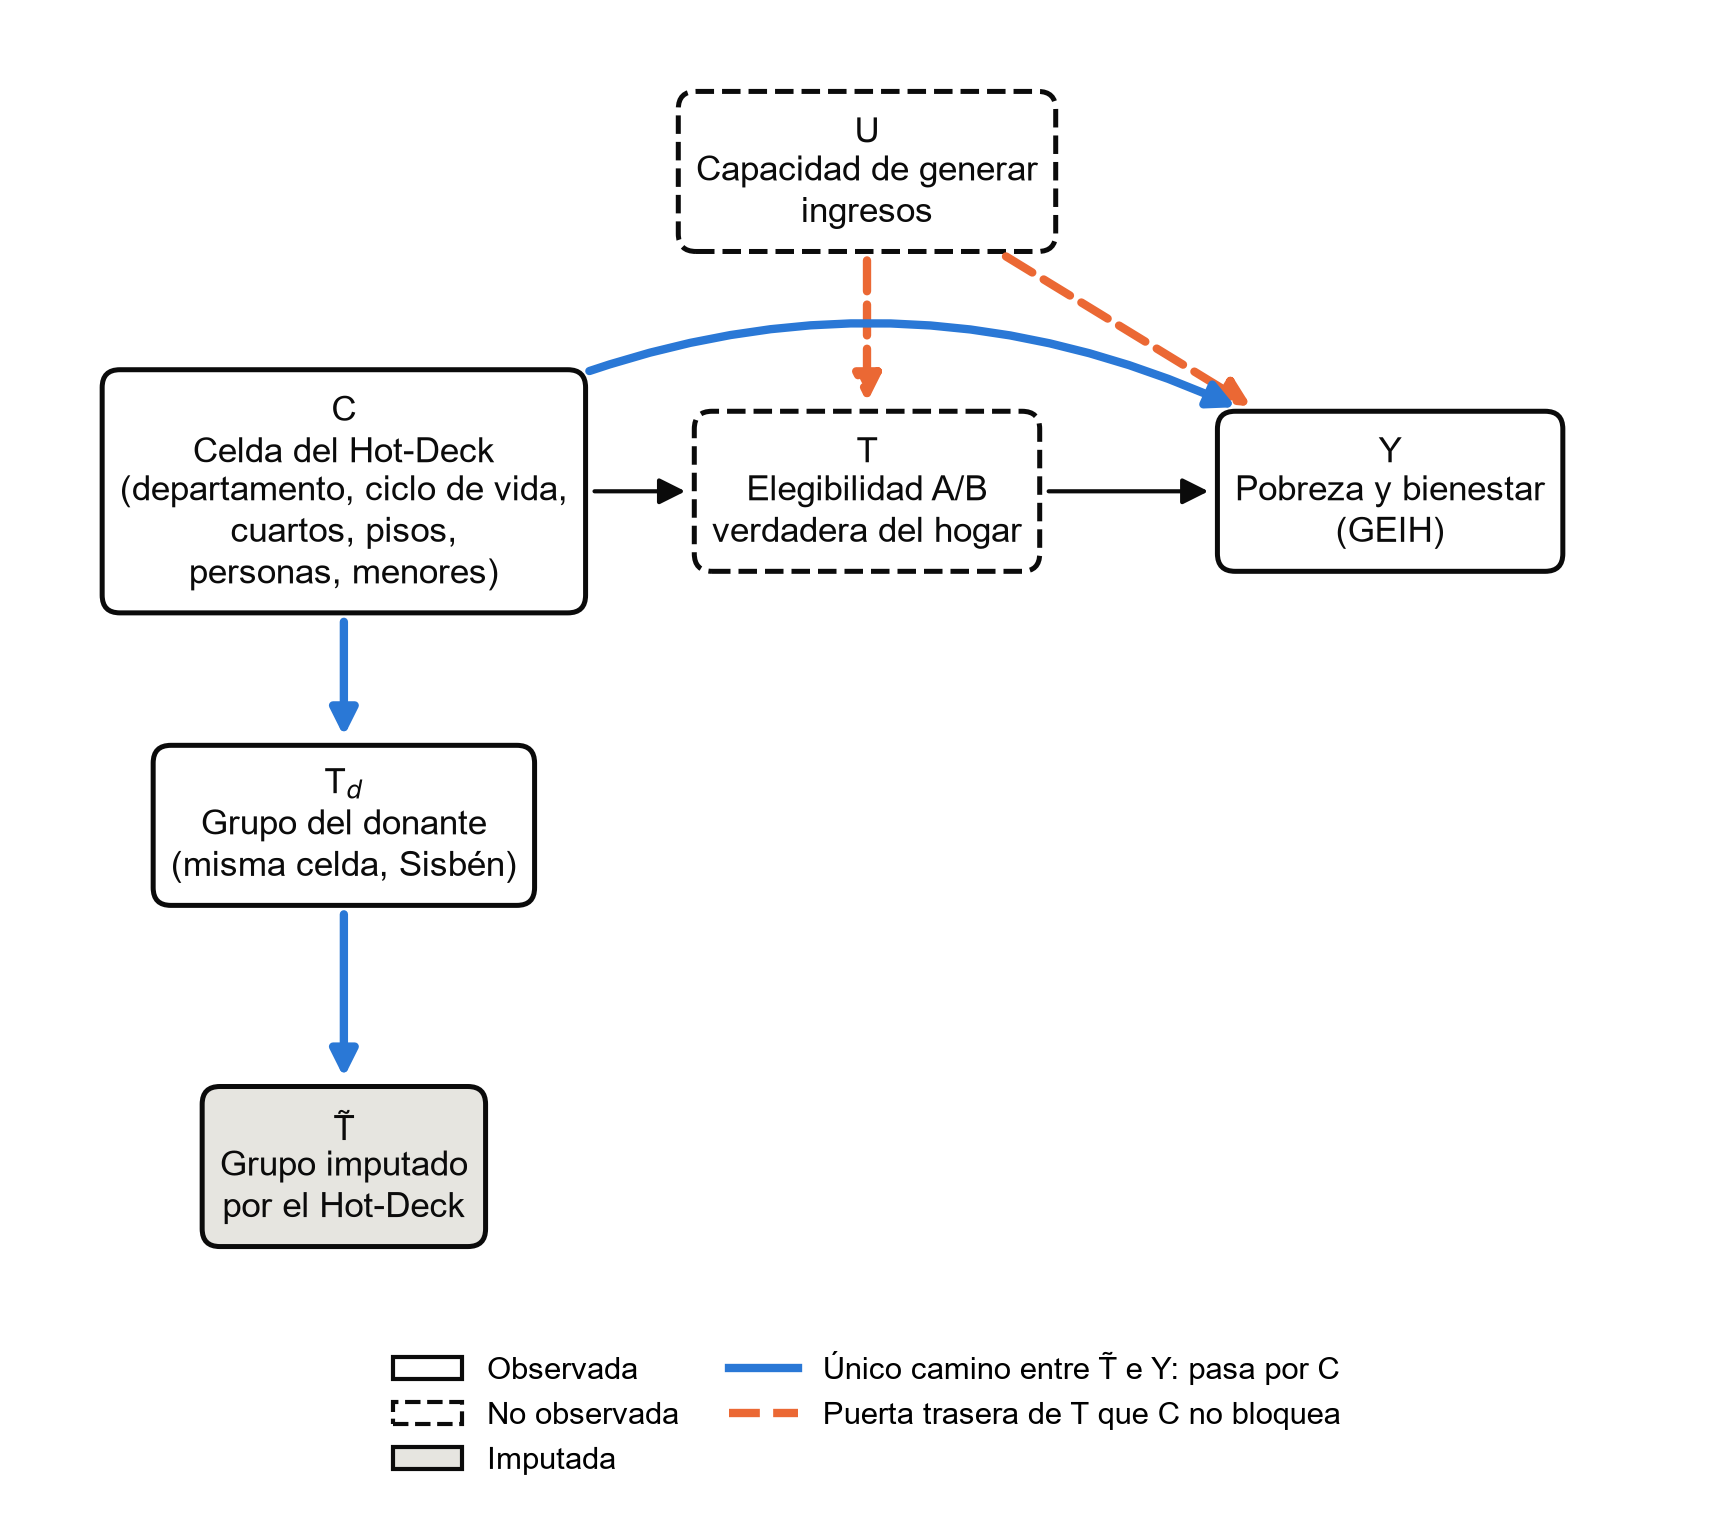
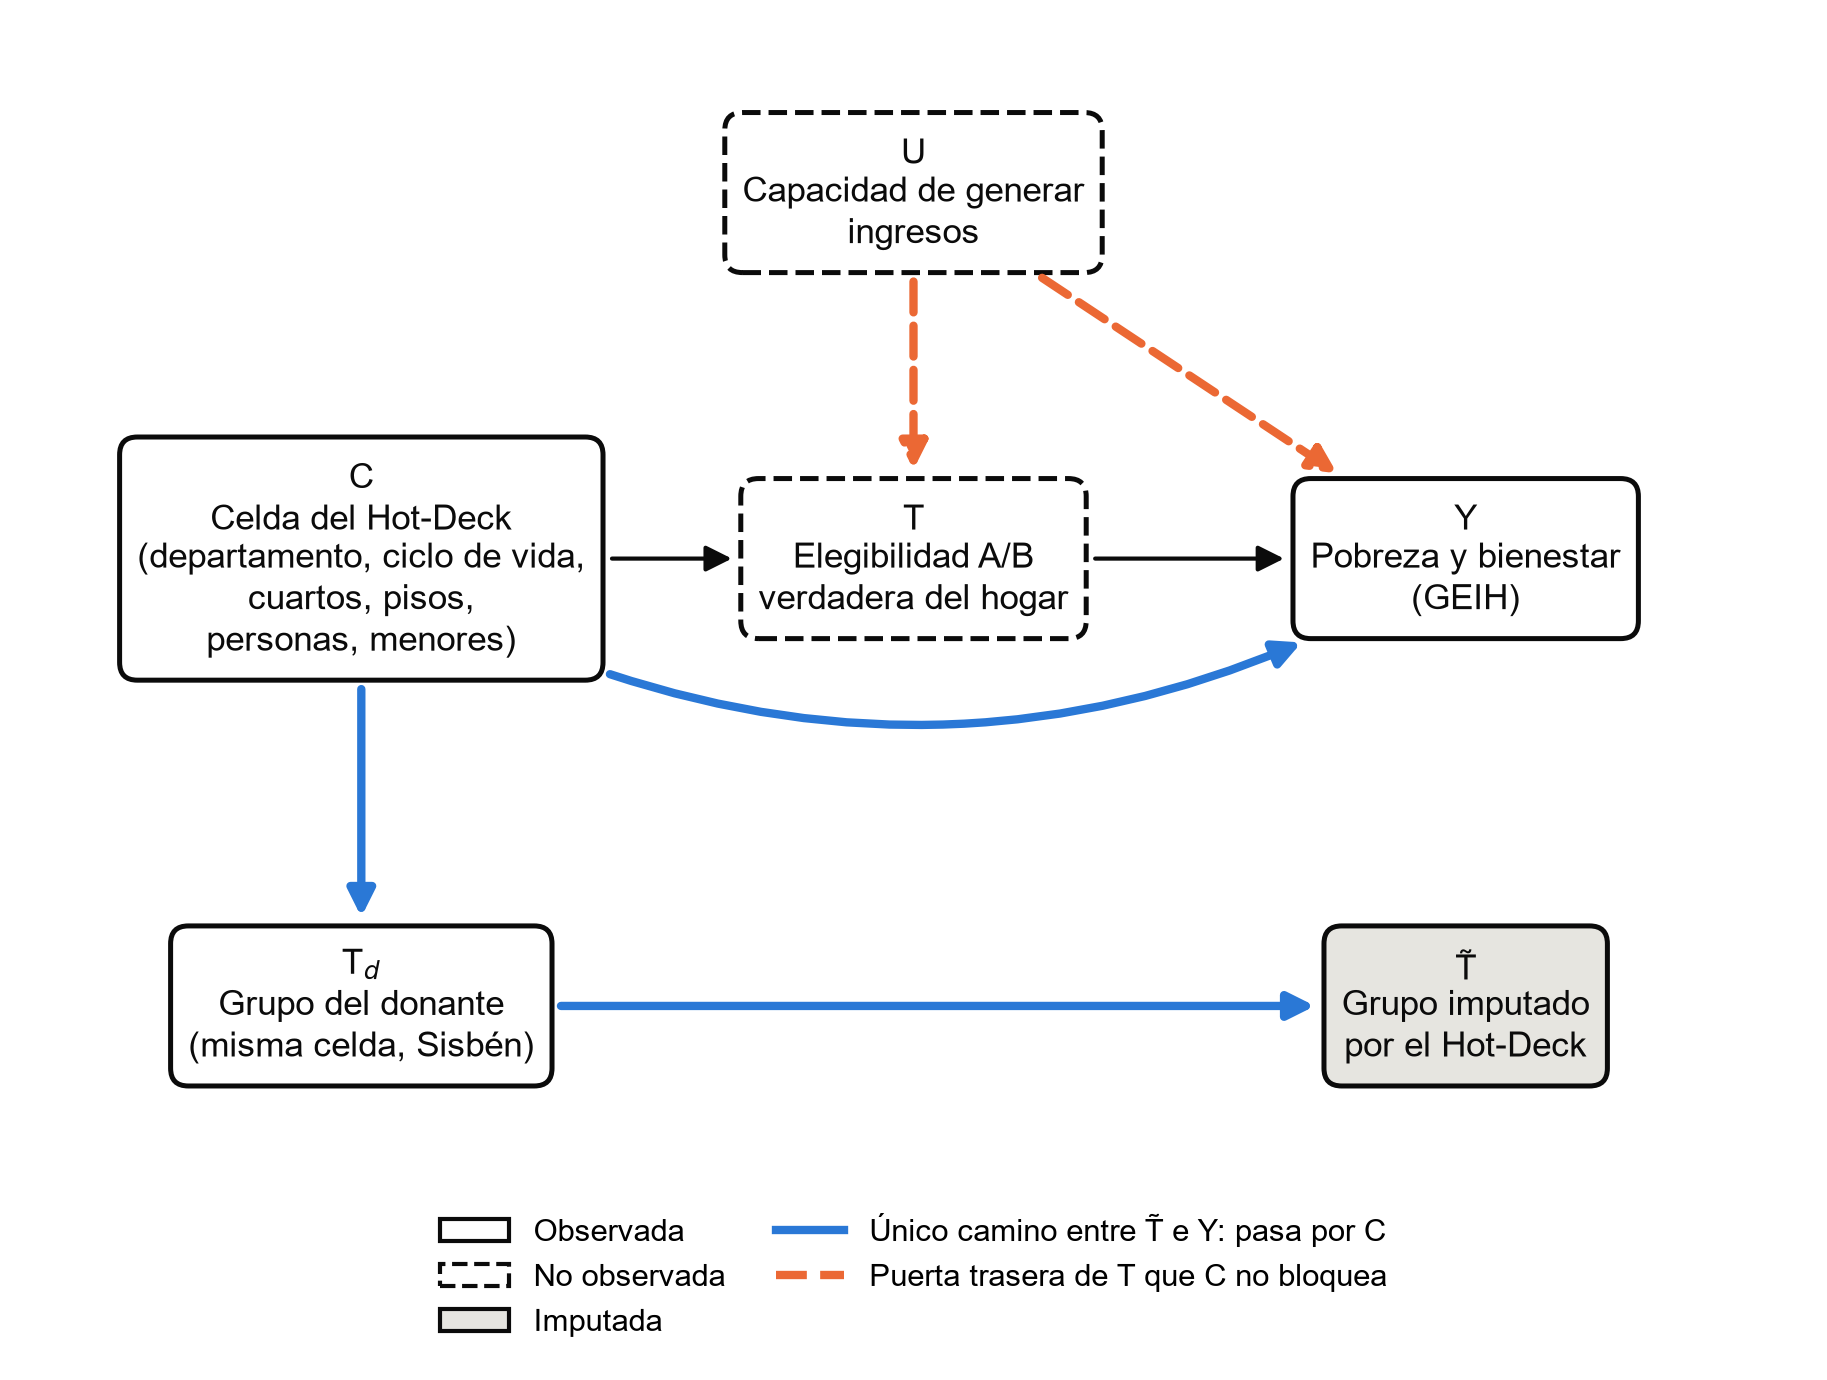
Sincronizacion con Azure por contenido (MD5) y 2_models publicado de nuevo; DAG de la simulacion y de la Proposicion 1

Changed region(s): [[0.0311, 0.0312, 0.9031, 0.8413], [0.218, 0.8725, 0.7785, 0.9659]]

diff --git a/src/utils/figuras_tesis.py b/src/utils/figuras_tesis.py
@@ -19,6 +19,8 @@
                                 grupo imputado es independiente de Y. Los dos DAG
                                 van en formato APA (sin título en la imagen) y
                                 comprueban con d-separación su nota
+  fig_dag_simulacion.png        DAG del generador de la simulación (sección 6.1):
+                                qué confunde la asignación según γ
   fig_nubes_celda_placebo.png   ilustración simulada* de la Proposición 1: en
                                 una celda, las nubes por T se separan y por T~
                                 son iguales
@@ -317,6 +319,22 @@ def grafo_ignorabilidad_hotdeck():
     return g
 
 
+def grafo_simulacion(gamma: bool = True):
+    """DAG del generador semisintético (sección 6.1), con la notación del
+    documento: C celda, X modificadores del efecto τ(X) (zona, sexo del jefe,
+    paredes), U residuo del ingreso real, Y0 ingreso real, T el tratamiento
+    simulado (sorteo o corte del puntaje), T_d y T~ los del Hot-Deck.
+    Es el mismo grafo de `4_dag_identificacion.grafo_simulacion`."""
+    import networkx as nx
+
+    g = nx.DiGraph()
+    g.add_edges_from([("C", "T"), ("X", "T"), ("C", "Td"), ("Td", "Ti"), ("C", "Y0"), ("X", "Y0"),
+                      ("U", "Y0"), ("Y0", "Y"), ("T", "Y"), ("X", "Y")])
+    if gamma:
+        g.add_edge("U", "T")
+    return g
+
+
 def _puerta_trasera(g, t: str, y: str, ajuste: set[str]) -> bool:
     import networkx as nx
 
@@ -404,8 +422,9 @@ def dag_ignorabilidad_hotdeck() -> Path:
     assert nx.is_d_separator(g, {"Ti"}, {"Y"}, {"C"}), "T~ debería ser independiente de Y dada C"
     assert not nx.is_d_separator(g, {"Ti"}, {"Y"}, set()), "sin C, T~ y Y deberían estar asociadas"
     assert not _puerta_trasera(g, "T", "Y", {"C"}), "U debería dejar abierta la puerta trasera de T"
+    # T̃ queda debajo de Y, sin flecha entre ellos: el único camino es por C.
     pos = {"U": (0.50, 1.00), "C": (0.00, 0.55), "T": (0.50, 0.55), "Y": (1.00, 0.55),
-           "Td": (0.00, 0.08), "Ti": (0.00, -0.40)}
+           "Td": (0.00, 0.00), "Ti": (1.00, 0.00)}
     etiqueta = {"U": "U\nCapacidad de generar\ningresos",
                 "C": "C\nCelda del Hot-Deck\n(departamento, ciclo de vida,\ncuartos, pisos,\npersonas, menores)",
                 "T": "T\nElegibilidad A/B\nverdadera del hogar",
@@ -416,7 +435,36 @@ def dag_ignorabilidad_hotdeck() -> Path:
                         abiertos={("U", "T"), ("U", "Y")}, etiqueta_abiertos="Puerta trasera de T que C no bloquea",
                         bloqueados={("C", "Td"), ("Td", "Ti"), ("C", "Y")},
                         etiqueta_bloqueados="Único camino entre T̃ e Y: pasa por C",
-                        imputado={"Ti"}, curva={("C", "Y"): -0.32})
+                        imputado={"Ti"}, curva={("C", "Y"): 0.30}, tam=(7.6, 5.0))
+
+
+def dag_simulacion() -> Path:
+    """DAG del generador de la simulación (sección 6.1). Comprueba con
+    d-separación lo que dice su nota: con γ = 0, C y X bastan para
+    identificar el efecto de T; con γ > 0, no; y T~ es independiente de Y
+    dada C."""
+    import networkx as nx
+
+    g = grafo_simulacion()
+    assert _puerta_trasera(grafo_simulacion(gamma=False), "T", "Y", {"C", "X"}), "con γ = 0, C y X deberían bastar"
+    assert not _puerta_trasera(g, "T", "Y", {"C", "X"}), "con γ > 0, U debería dejar abierta la puerta trasera"
+    assert nx.is_d_separator(g, {"Ti"}, {"Y"}, {"C"}), "T~ debería ser independiente de Y dada C"
+    # Misma fila central que el DAG de la Proposición 1: C → T → Y.
+    pos = {"U": (0.50, 1.05), "Y0": (1.00, 1.05),
+           "C": (0.00, 0.55), "T": (0.50, 0.55), "Y": (1.00, 0.55),
+           "Td": (0.00, 0.05), "Ti": (0.50, 0.05), "X": (1.00, 0.05)}
+    etiqueta = {"C": "C\nCelda del Hot-Deck",
+                "X": "X\nModificadores del efecto\n(zona, sexo del jefe, paredes)",
+                "U": "U\nResiduo del\ningreso real",
+                "Td": "T$_d$\nGrupo del donante\n(misma celda)",
+                "T": "T*\nTratamiento simulado\n(sorteo o corte del puntaje)",
+                "Y0": "Y(0)\nIngreso real\n(GEIH)",
+                "Ti": "T̃\nGrupo imputado\npor el Hot-Deck",
+                "Y": "Y*\nY(0) + τ(X)·T*"}
+    return _dibujar_dag(g, pos, etiqueta, "fig_dag_simulacion.png", no_observado={"U"},
+                        abiertos={("U", "T")}, etiqueta_abiertos="Confusión no observada: solo con γ > 0",
+                        bloqueados={("T", "Y")}, etiqueta_bloqueados="Efecto verdadero τ(X) que se busca recuperar",
+                        imputado={"Ti"}, curva={("X", "Y0"): 0.45}, tam=(7.8, 5.4))
 
 
 def nubes_celda(efecto: float = 0.8, n: int = 90, semilla: int = 7) -> Path:
@@ -526,7 +574,7 @@ def main(con_datos: bool = True) -> None:
     _estilo()
     rutas = [cotas_por_celda(), errores_por_departamento(), atenuacion(), arquitectura(), estabilidad_hotdeck(),
              importancia_oe1(), dag_ignorabilidad_marco(),
-             dag_ignorabilidad_hotdeck(), nubes_celda(), dml_tres_pasos()]
+             dag_ignorabilidad_hotdeck(), dag_simulacion(), nubes_celda(), dml_tres_pasos()]
     if con_datos:
         rutas.append(propension_celda())
     print("\n".join(f"Guardado: {r}" for r in rutas))

diff --git a/src/utils/azure_storage.py b/src/utils/azure_storage.py
@@ -36,6 +36,7 @@ Uso típico:
 
 from __future__ import annotations
 
+import hashlib
 import logging
 import os
 from pathlib import Path
@@ -91,6 +92,9 @@ def subir_archivo(ruta_local: str | Path, ruta_azure: str, sobrescribir: bool = 
 
     container = _cliente_contenedor()
     blob_client = container.get_blob_client(ruta_azure)
+    # El MD5 queda guardado aunque la subida vaya por bloques: es lo que
+    # compara `ya_esta_en_azure` en la próxima sincronización.
+    md5 = _md5(ruta_local)
 
     logger.info(
         "Subiendo %s -> azure://%s/%s (%.2f MB)",
@@ -103,7 +107,7 @@ def subir_archivo(ruta_local: str | Path, ruta_azure: str, sobrescribir: bool = 
         try:
             with open(ruta_local, "rb") as f:
                 blob_client.upload_blob(
-                    f, overwrite=sobrescribir,
+                    f, overwrite=sobrescribir, content_settings=ContentSettings(content_md5=md5),
                     timeout=900, connection_timeout=900, max_concurrency=2,
                 )
             logger.info("Subida completa: %s", ruta_azure)
@@ -149,6 +153,32 @@ def listar_archivos(prefijo: str = "") -> list[str]:
     return [b.name for b in container.list_blobs(name_starts_with=prefijo)]
 
 
+def _md5(ruta: Path) -> bytes:
+    h = hashlib.md5()
+    with open(ruta, "rb") as f:
+        for bloque in iter(lambda: f.read(8 * 1024 * 1024), b""):
+            h.update(bloque)
+    return h.digest()
+
+
+def ya_esta_en_azure(archivo: Path, blob) -> bool:
+    """¿El blob tiene el mismo contenido que el archivo local?
+
+    Hasta el 2026-11-18 se comparaba solo el tamaño, y un parquet
+    regenerado con el mismo tamaño no se subía: la GEIH procesada de Azure
+    quedó en la versión del 2026-10-10 aunque la local era del 2026-11-02.
+    Se compara el MD5 que Azure guarda del contenido; si el blob no lo
+    tiene (subidas por bloques), cuenta como distinto si el tamaño cambia
+    o si el archivo local es más reciente que el blob."""
+    if blob is None:
+        return False
+    md5_azure = blob.content_settings.content_md5 if blob.content_settings else None
+    if md5_azure:
+        return bytes(md5_azure) == _md5(archivo)
+    local_mas_reciente = archivo.stat().st_mtime > blob.last_modified.timestamp()
+    return blob.size == archivo.stat().st_size and not local_mas_reciente
+
+
 def sincronizar_carpeta_local_a_azure(
     carpeta_local: str | Path,
     prefijo_azure: str,
@@ -173,16 +203,15 @@ def sincronizar_carpeta_local_a_azure(
     logger.info("Sincronizando %s archivos de %s hacia azure://%s/%s",
                 len(archivos), carpeta_local, CONTAINER_NAME, prefijo_azure)
 
-    # Reanudable: se omiten los archivos que ya están en Azure con el mismo tamaño.
+    # Reanudable: se omiten los archivos que ya están en Azure con el mismo contenido.
     existentes = {
-        b.name: b.size
-        for b in _cliente_contenedor().list_blobs(name_starts_with=f"{prefijo_azure}/")
+        b.name: b for b in _cliente_contenedor().list_blobs(name_starts_with=f"{prefijo_azure}/")
     }
     subidos = omitidos_ya = 0
     for archivo in archivos:
         ruta_relativa = archivo.relative_to(carpeta_local)
         ruta_azure = f"{prefijo_azure}/{ruta_relativa.as_posix()}"
-        if existentes.get(ruta_azure) == archivo.stat().st_size:
+        if ya_esta_en_azure(archivo, existentes.get(ruta_azure)):
             omitidos_ya += 1
             continue
         subir_archivo(archivo, ruta_azure)

diff --git a/tests/test_azure_storage.py b/tests/test_azure_storage.py
@@ -1,0 +1,44 @@
+"""Sincronización con el banco de datos de Azure: qué archivo se vuelve a
+subir. Hasta el 2026-11-18 se comparaba solo el tamaño y la GEIH procesada
+de Azure quedó en la versión del 2026-10-10. No se conecta a Azure."""
+import hashlib
+import os
+from datetime import datetime, timezone
+from types import SimpleNamespace
+
+from src.utils.azure_storage import ya_esta_en_azure
+
+
+def _blob(contenido: bytes, md5: bool = True, modificado: float = 0.0):
+    return SimpleNamespace(
+        size=len(contenido),
+        last_modified=datetime.fromtimestamp(modificado, tz=timezone.utc),
+        content_settings=SimpleNamespace(content_md5=bytearray(hashlib.md5(contenido).digest()) if md5 else None),
+    )
+
+
+def test_mismo_tamano_otro_contenido_se_sube(tmp_path):
+    archivo = tmp_path / "a.parquet"
+    archivo.write_bytes(b"version nueva")
+    assert len(b"version nueva") == len(b"version vieja")
+    assert not ya_esta_en_azure(archivo, _blob(b"version vieja"))
+
+
+def test_mismo_contenido_no_se_sube(tmp_path):
+    archivo = tmp_path / "a.parquet"
+    archivo.write_bytes(b"igual")
+    assert ya_esta_en_azure(archivo, _blob(b"igual"))
+
+
+def test_sin_blob_se_sube(tmp_path):
+    archivo = tmp_path / "a.parquet"
+    archivo.write_bytes(b"x")
+    assert not ya_esta_en_azure(archivo, None)
+
+
+def test_sin_md5_cuenta_la_fecha(tmp_path):
+    archivo = tmp_path / "a.parquet"
+    archivo.write_bytes(b"version nueva")
+    os.utime(archivo, (2_000_000_000, 2_000_000_000))
+    assert not ya_esta_en_azure(archivo, _blob(b"version vieja", md5=False, modificado=1_000_000_000))
+    assert ya_esta_en_azure(archivo, _blob(b"version vieja", md5=False, modificado=3_000_000_000))

diff --git a/tests/mutaciones.py b/tests/mutaciones.py
@@ -7,7 +7,7 @@ No lo recoge pytest (el nombre no empieza por `test_`).
 
 Uso:
     PYTHONIOENCODING=utf-8 ./.venv/Scripts/python.exe tests/mutaciones.py
-Resultado del 2026-11-15: 69 de 69 mutaciones detectadas.
+Resultado del 2026-11-18: 70 de 70 mutaciones detectadas.
 Al agregar una prueba por un error nuevo, agregar aquí su mutación.
 """
 import shutil
@@ -205,6 +205,9 @@ MUTACIONES = [
      "tests/test_variabilidad_hotdeck.py"),
     ("Variabilidad: reglas de Rubin sin el factor (1 + 1/m)", "src/diagnostico/variabilidad_hotdeck.py",
      "total = w + (1 + 1 / m) * b", "total = w + b", "tests/test_variabilidad_hotdeck.py"),
+    ("Azure: sincronización por tamaño, no por contenido (error del 2026-11-18)", "src/utils/azure_storage.py",
+     "return bytes(md5_azure) == _md5(archivo)", "return blob.size == archivo.stat().st_size",
+     "tests/test_azure_storage.py"),
 ]
 
 resultados = []

diff --git a/tests/README.md b/tests/README.md
@@ -1,6 +1,6 @@
 # Pruebas
 
-283 pruebas en 26 archivos (2026-11-15). Casi todas usan datos
+287 pruebas en 27 archivos (2026-11-18). Casi todas usan datos
 sintéticos y corren sin el banco de datos; las que necesitan datos reales
 se saltan solas si no están (`skipif`).
 
@@ -45,6 +45,7 @@ equivocados (CLAUDE.md, "Bugs ya encontrados").
 | `test_variables_canonicas.py` | `utils/variables_canonicas.py` | Llaves con formatos distintos ("01", "1.0", " 1 "); jefe por fuente; cortes del ciclo de vida de `PER002`; menor de 18 en años (17 sí, 18 no) y en ciclo de vida (1-3 sí, 4 no); GEIH y Sisbén en los mismos tramos del Hot-Deck | `mes` "01" frente a "1" (2026-11-02); celdas que no empatan entre fuentes |
 | `test_ingesta_y_validacion.py` | `ingesta/geih_loader.py`, `validacion/comparar_pobreza_monetaria_oficial.py`, `4_dag_identificacion.py` | Los 8 módulos de los 12 meses con las variantes reales ("No ocupado" en marzo, agosto desde `.DTA`, carpetas vacías); Latin-1; cruce uno a uno con la base oficial; chequeos de identificación de los cinco DAG (placebo del Hot-Deck, registro en el Sisbén, confusión de la simulación) | Meses incompletos sin aviso; cruce vacío con la base oficial |
 | `test_hotdeck_celda.py` | `emparejamiento/…` | Celda con nivel de pisos y tramos de personas y menores, igual entre fuentes; cadena de respaldos en orden (`sin_menores` → `sin_personas` → `sin_pisos` → …); falla si falta una columna de la celda | Celda que cae al respaldo sin avisar; tramo de personas corrido |
+| `test_azure_storage.py` | `utils/azure_storage.py` | La sincronización vuelve a subir un archivo con el mismo tamaño y otro contenido (MD5); sin MD5, el que cambió de tamaño o es más reciente; no sube el idéntico | `2_models` de Azure en la versión del 2026-11-02 (sin `hog_num_menores` ni el IPM rural corregido) hasta el 2026-11-18 |
 | `test_local_csv_parser.py` | `ingesta/local_csv_parser.py` | Códigos de `.DTA` como "1", no "1.0" | Agosto con `POBRE_GEIH` 6,9 % (hasta 2026-11-02) |
 | `test_validar_ipm_geih_ecv.py` | `indicadores/ipm_proxy.py`, `validacion/validar_ipm_geih_ecv.py` | Reglas del proxy (sin y con todas las privaciones, nivel 99), vivienda con la definición oficial por zona (excretas, agua, hacinamiento), jefe no ocupado privado en la ECV como en la GEIH, concordancia ponderada y kappa | Campo con la regla urbana de alcantarillado; jefe no ocupado de la ECV contado como cotizante |
 | `test_preprocesamiento.py` | `3_preprocesamiento.py` | IPM-GEIH con enero real: una fila por hogar, privaciones binarias sin faltantes, puntaje = suma, umbrales monótonos (se salta sin los datos) | |

diff --git a/docs/seguimiento/CHANGELOG_PENDIENTES.md b/docs/seguimiento/CHANGELOG_PENDIENTES.md
@@ -2,6 +2,24 @@
 
 Formato: más reciente primero. Rama de trabajo: `main`.
 
+## 2026-11-18 (47) — Banco de datos de Azure al día; DAG de la Proposición 1 y de la simulación
+
+### Corregido
+- **`2_models` de Azure estaba en la versión del 2026-11-02.** La sincronización omitía todo
+  archivo con el mismo tamaño que el de Azure, sin avisar. Comparado en memoria: la fusionada y
+  las muestras de estimación no tenían `hog_num_menores`, su Hot-Deck era de la celda anterior
+  (grupo, nivel y celda distintos) y la muestra tenía el IPM sin la corrección rural del 11-nov
+  (`POBRE_GEIH`, hacinamiento, acueducto, alcantarillado). Las filas coincidían. `azure_storage`
+  compara ahora el MD5 y lo guarda al subir; `2_models` publicado de nuevo y verificado (14 de 14
+  iguales). En `1_processed`, la GEIH mensual de Azure solo difiere en `_ingestion_timestamp`.
+  Prueba en `tests/test_azure_storage.py` y su mutación.
+- 287 pruebas; 70 de 70 mutaciones detectadas.
+
+### Agregado
+- **DAG de la simulación** (`fig_dag_simulacion.png`, sección 6.1 del documento) con la paleta de
+  las demás figuras, y el de la Proposición 1 reacomodado (T̃ debajo de Y, sin flecha entre
+  ellos). Los dos comprueban por d-separación lo que dice su nota.
+
 ## 2026-11-16 (46) — Variables descartadas evaluadas sobre la celda final; conteo de departamentos
 
 ### Corregido

diff --git a/CLAUDE.md b/CLAUDE.md
@@ -152,6 +152,14 @@ abierta y recomendación, no como conclusión causal). Reglas del tutor:
   celda o el tamaño de una muestra, comparar el DML con la regresión con
   efectos fijos antes de leerlo.
 
+- **La sincronización con Azure comparaba solo el tamaño.** Hasta el
+  2026-11-18 `sincronizar_carpeta_local_a_azure` omitía un archivo si en
+  Azure había uno del mismo tamaño: `2_models` quedó en la versión del
+  2026-11-02 (sin `hog_num_menores`, Hot-Deck de la celda anterior e IPM
+  sin la corrección rural) aunque se publicó después. No da error. Ahora
+  compara el MD5 del contenido. Después de publicar, comprobar que Azure
+  coincide con lo local antes de correr algo desde Azure.
+
 ## Diccionarios oficiales de variables
 
 `docs/insumos/DICCIONARIO_GEIH_2024.xlsx` (761 filas: ID/Nombre/Etiqueta/
@@ -268,7 +276,7 @@ de forma explicable, no silenciosa). Reportes crudos van a
 Pruebas: mapa de qué cubre cada archivo en `tests/README.md`. Si se
 encuentra un error nuevo, agregar la prueba que lo habría detectado y su
 mutación en `tests/mutaciones.py` (que comprueba que las pruebas fallan
-cuando el error vuelve; 69 de 69 el 2026-11-15). Antes de mapear una
+cuando el error vuelve; 70 de 70 el 2026-11-18). Antes de mapear una
 columna nueva de GEIH o del Sisbén, agregar su etiqueta esperada en
 `tests/test_armonizacion.py`.
 

diff --git a/docs/seguimiento/RESUMEN_AVANCES.md b/docs/seguimiento/RESUMEN_AVANCES.md
@@ -56,7 +56,7 @@ el efecto cuando hay confusión no observada
 | Simulación de identificación | `src/simulacion/simulacion_identificacion.py` | ✅ (datos sintéticos) |
 | **Evaluación semisintética** | `src/simulacion/` (módulo del framework; antes `src/validacion/simulacion_semisintetica.py`) | ✅ 2026-11-03, hasta la convergencia |
 | **Reglas de focalización (OE3)** | `src/focalizacion/reglas_focalizacion.py` | ✅ 2026-11-04 (simulado) |
-| Pruebas | `tests/` (`pytest`; mapa en `tests/README.md`) | ✅ 283 pruebas; 69 de 69 errores documentados detectados por mutación (2026-11-15); corren solas en GitHub Actions en cada push y PR (2026-11-04) |
+| Pruebas | `tests/` (`pytest`; mapa en `tests/README.md`) | ✅ 287 pruebas; 70 de 70 errores documentados detectados por mutación (2026-11-18); corren solas en GitHub Actions en cada push y PR (2026-11-04) |
 
 ## 3. Resultados vigentes
 
